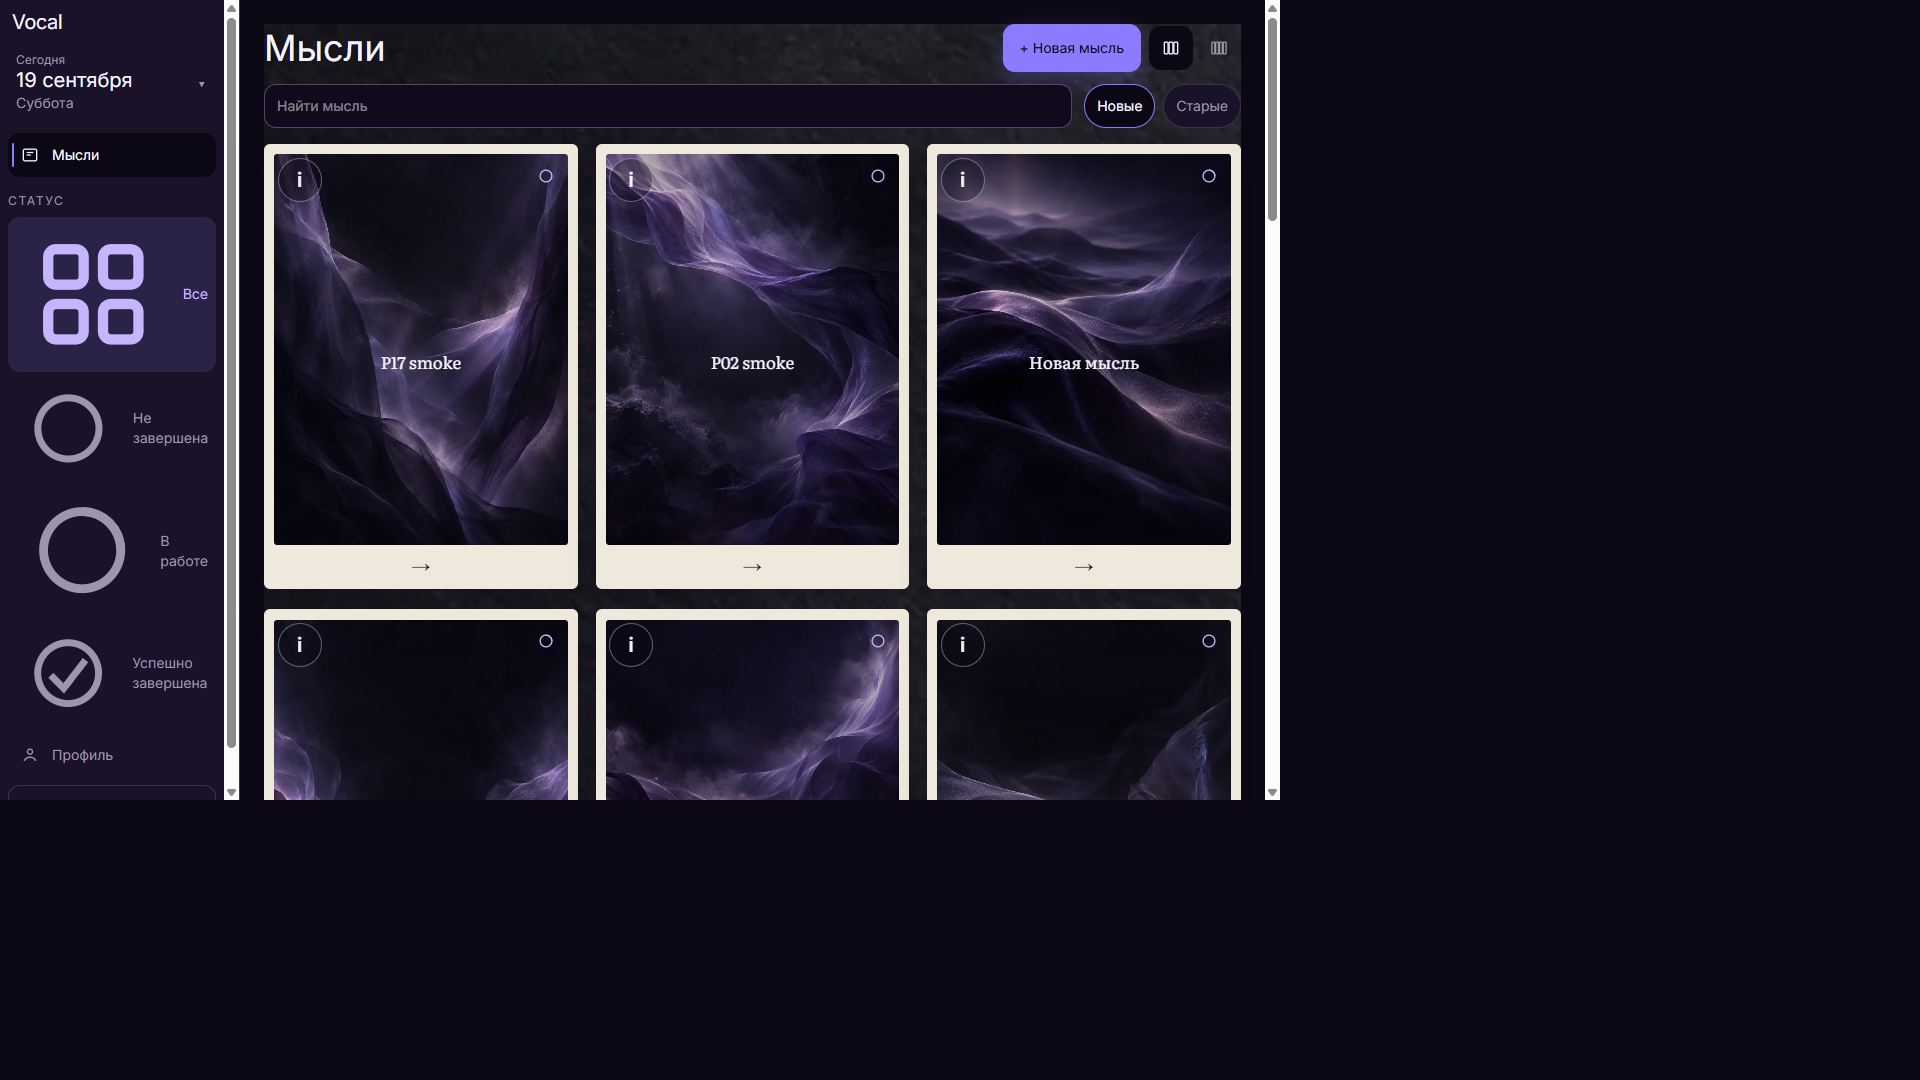
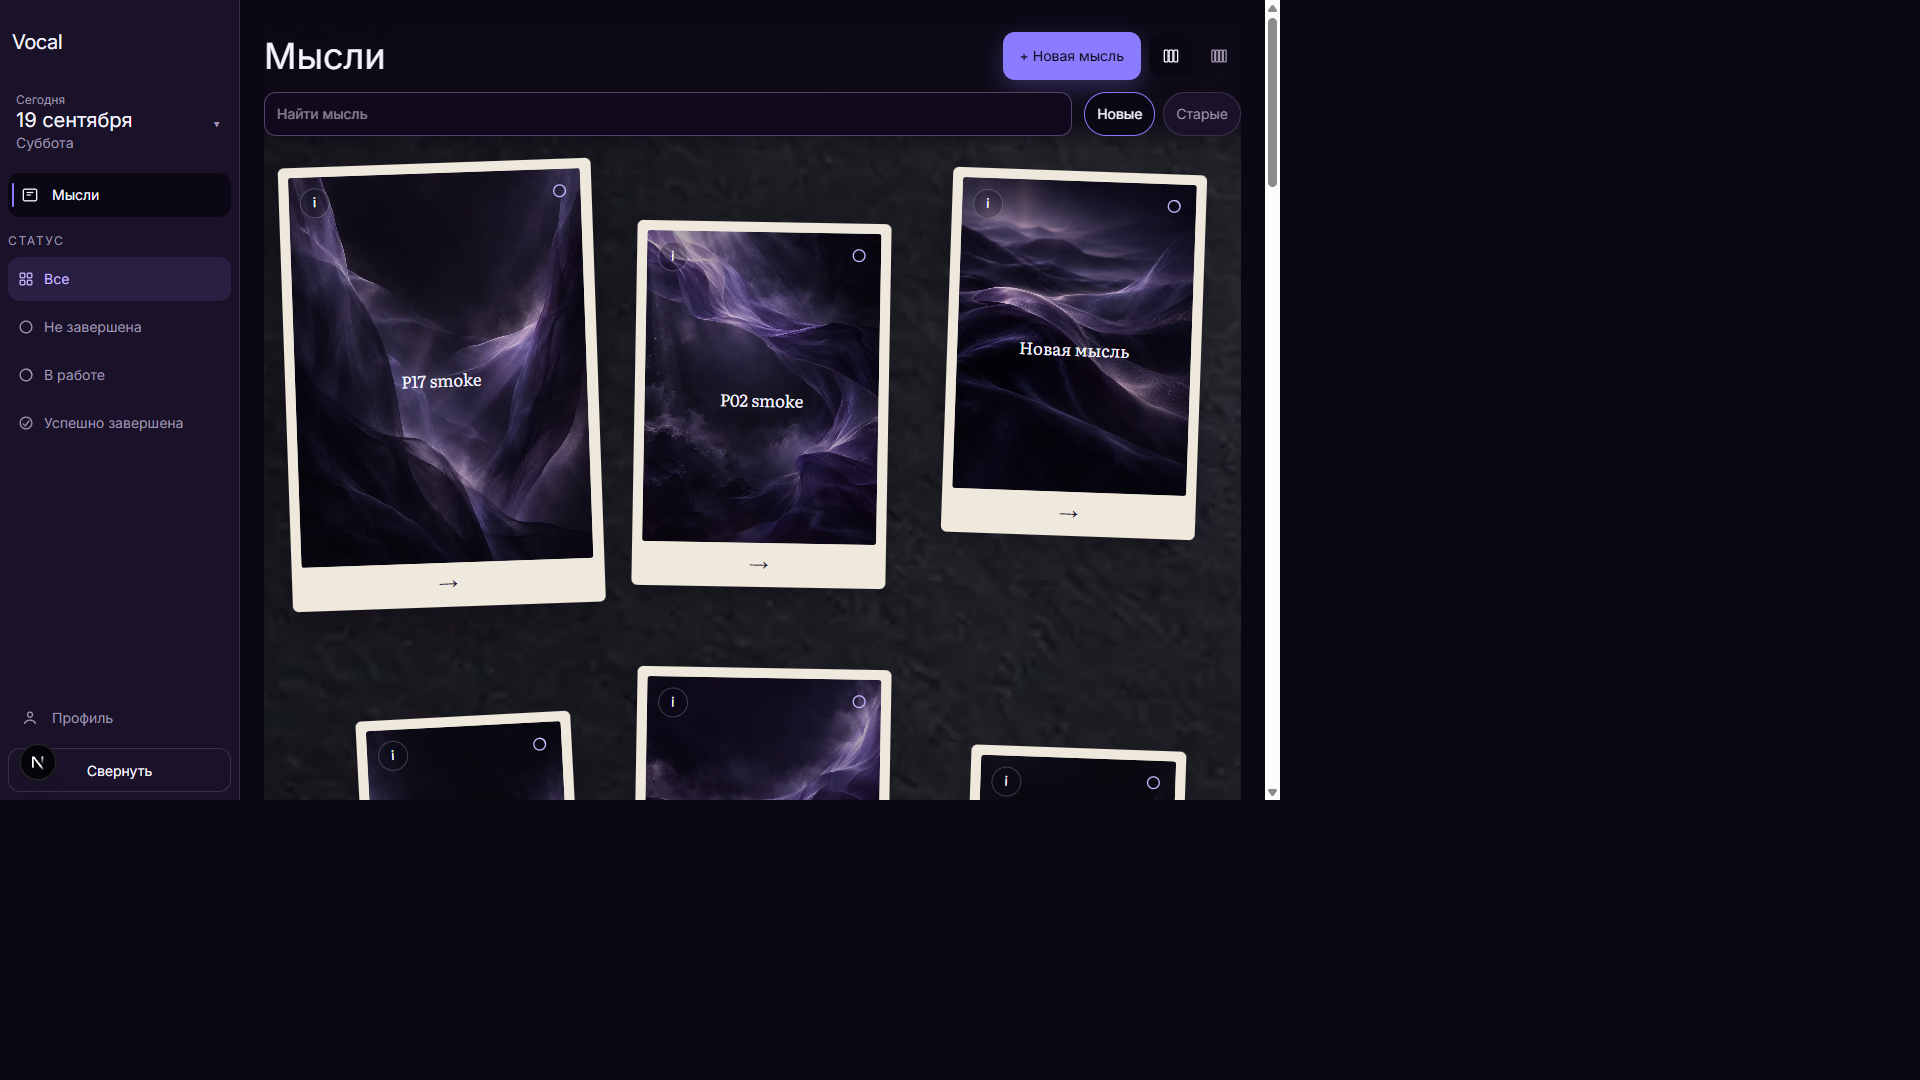
P01.6-2: lay large desktop polaroids in deterministic six-card desk spreads.

diff --git a/tests/p01-6-2-desktop-static.test.ts b/tests/p01-6-2-desktop-static.test.ts
@@ -9,6 +9,11 @@ import {
   readArchiveDensity,
   writeArchiveDensity,
 } from "../src/lib/archive-density";
+import {
+  ARCHIVE_DESK_SPREAD_SIZE,
+  archiveDeskSlot,
+  chunkArchiveDeskSpreads,
+} from "../src/lib/archive-desk-layout";
 
 const root = join(dirname(fileURLToPath(import.meta.url)), "..");
 
@@ -42,6 +47,31 @@ test("P01.6-2 density stays local and defaults to large", (t) => {
   assert.equal(readArchiveDensity(), "compact");
 });
 
+test("P01.6-2 large desktop splits thoughts into deterministic six-card desk spreads", () => {
+  assert.equal(ARCHIVE_DESK_SPREAD_SIZE, 6);
+  assert.deepEqual(chunkArchiveDeskSpreads([1, 2, 3, 4, 5, 6, 7, 8, 9, 10, 11, 12, 13]), [
+    [1, 2, 3, 4, 5, 6],
+    [7, 8, 9, 10, 11, 12],
+    [13],
+  ]);
+  assert.equal(archiveDeskSlot(0), 1);
+  assert.equal(archiveDeskSlot(5), 6);
+  const list = readFileSync(join(root, "src/components/ReelList.tsx"), "utf8");
+  const css = readFileSync(join(root, "src/app/globals.css"), "utf8");
+  assert.match(list, /chunkArchiveDeskSpreads/);
+  assert.match(list, /data-slot=\{slot\}/);
+  assert.match(list, /archive-desk-spread/);
+  assert.equal(list.includes("Math.random"), false);
+  assert.equal(css.includes("Math.random"), false);
+  assert.match(css, /\.archive-desk-slot-1[\s\S]*--archive-slot-tilt:\s*-2deg/);
+  assert.match(css, /\.archive-desk-slot-2[\s\S]*--archive-slot-tilt:\s*1deg/);
+  assert.match(css, /\.archive-desk-slot-3[\s\S]*--archive-slot-tilt:\s*2deg/);
+  assert.match(css, /\.archive-desk-slot-4[\s\S]*--archive-slot-tilt:\s*-3deg/);
+  assert.match(css, /\.archive-desk-slot-5[\s\S]*--archive-slot-tilt:\s*1deg/);
+  assert.match(css, /\.archive-desk-slot-6[\s\S]*--archive-slot-tilt:\s*2deg/);
+  assert.match(css, /\.archive-polaroid-grid-compact[\s\S]*repeat\(4/);
+});
+
 test("P01.6-2 desktop composition moves calendar/status left and toolbar into the work area", () => {
   const list = readFileSync(join(root, "src/components/ReelList.tsx"), "utf8");
   const shell = readFileSync(join(root, "src/components/VocalAppShell.tsx"), "utf8");
@@ -62,7 +92,7 @@ test("P01.6-2 desktop composition moves calendar/status left and toolbar into th
   assert.match(shell, /shell:overflow-y-auto/);
   assert.match(shell, /setDateHost/);
   assert.match(shell, /setStatusHost/);
-  assert.match(css, /\.archive-polaroid-grid[\s\S]*repeat\(3/);
+  assert.match(css, /\.archive-desk-spread[\s\S]*position:\s*relative/);
   assert.match(css, /\.archive-polaroid-grid-compact[\s\S]*repeat\(4/);
   assert.match(css, /\.archive-polaroid-title[\s\S]*text-align:\s*center/);
   assert.match(css, /\.archive-polaroid-info[\s\S]*min-height:\s*2\.75rem/);

diff --git a/src/components/ReelList.tsx b/src/components/ReelList.tsx
@@ -43,6 +43,10 @@ import {
   type ArchiveListUrlState,
 } from "@/lib/thought-archive-state";
 import {
+  archiveDeskSlot,
+  chunkArchiveDeskSpreads,
+} from "@/lib/archive-desk-layout";
+import {
   readArchiveDensity,
   writeArchiveDensity,
   type ArchiveDensity,
@@ -515,12 +519,8 @@ export function ReelList() {
 
           {!loading && !listError && reels.length > 0 ? (
             <div className="space-y-4">
-              {isDesktop ? (
-                <ul
-                  className={`archive-polaroid-grid ${
-                    density === "compact" ? "archive-polaroid-grid-compact" : ""
-                  } list-none p-0`}
-                >
+              {isDesktop && density === "compact" ? (
+                <ul className="archive-polaroid-grid archive-polaroid-grid-compact list-none p-0">
                   {reels.map((reel) => (
                     <li key={reel.id} className="min-w-0">
                       <ArchivePolaroidCard
@@ -532,6 +532,34 @@ export function ReelList() {
                     </li>
                   ))}
                 </ul>
+              ) : isDesktop ? (
+                <div className="archive-desk-spreads">
+                  {chunkArchiveDeskSpreads(reels).map((spread, spreadIndex) => (
+                    <ul
+                      key={spread.map((reel) => reel.id).join("-")}
+                      className="archive-desk-spread list-none p-0"
+                      data-archive-spread={spreadIndex + 1}
+                    >
+                      {spread.map((reel, indexInSpread) => {
+                        const slot = archiveDeskSlot(indexInSpread);
+                        return (
+                          <li
+                            key={reel.id}
+                            data-slot={slot}
+                            className={`archive-desk-slot archive-desk-slot-${slot}`}
+                          >
+                            <ArchivePolaroidCard
+                              reel={reel}
+                              variant="desktop"
+                              onOpenPreview={() => openPreview(reel.id)}
+                              onLeaveToStudio={() => rememberArchiveFocus(reel.id)}
+                            />
+                          </li>
+                        );
+                      })}
+                    </ul>
+                  ))}
+                </div>
               ) : (
                 <ul className="archive-polaroid-grid-mobile list-none p-0">
                   {reels.map((reel) => (

diff --git a/src/app/globals.css b/src/app/globals.css
@@ -210,6 +210,78 @@ a[aria-disabled="true"] {
   grid-template-columns: repeat(4, minmax(0, 1fr));
 }
 
+.archive-desk-spreads {
+  display: flex;
+  flex-direction: column;
+  gap: 4.5rem;
+}
+
+.archive-desk-spread {
+  position: relative;
+  width: 100%;
+  aspect-ratio: 10 / 11;
+  overflow: visible;
+}
+
+.archive-desk-slot {
+  position: absolute;
+  z-index: 1;
+  margin: 0;
+  transform: rotate(var(--archive-slot-tilt, 0deg));
+  transform-origin: 50% 42%;
+}
+
+.archive-desk-slot .archive-polaroid {
+  width: 100%;
+}
+
+.archive-desk-slot-1 {
+  left: 2%;
+  top: 1%;
+  width: 32%;
+  --archive-slot-tilt: -2deg;
+}
+
+.archive-desk-slot-2 {
+  left: 38%;
+  top: 6.5%;
+  width: 26%;
+  --archive-slot-tilt: 1deg;
+}
+
+.archive-desk-slot-3 {
+  left: 70%;
+  top: 1.8%;
+  width: 26%;
+  --archive-slot-tilt: 2deg;
+}
+
+.archive-desk-slot-4 {
+  left: 10%;
+  top: 52.5%;
+  width: 22%;
+  --archive-slot-tilt: -3deg;
+}
+
+.archive-desk-slot-5 {
+  left: 38%;
+  top: 48%;
+  width: 26%;
+  --archive-slot-tilt: 1deg;
+}
+
+.archive-desk-slot-6 {
+  left: 72%;
+  top: 55.5%;
+  width: 22%;
+  --archive-slot-tilt: 2deg;
+}
+
+.archive-desk-slot-4 .archive-polaroid-title,
+.archive-desk-slot-6 .archive-polaroid-title {
+  font-size: 0.92rem;
+}
+
 .archive-polaroid {
   position: relative;
   background: #efe8dc;
@@ -240,6 +312,11 @@ a[aria-disabled="true"] {
     transform: translateY(-5px) rotate(-1.25deg);
     box-shadow: 0 18px 34px rgba(11, 7, 20, 0.45);
     color: #100b1a;
+  }
+
+  .archive-desk-spread .archive-polaroid:hover,
+  .archive-desk-spread .archive-polaroid:focus-within {
+    transform: translateY(-6px);
   }
 }
 

diff --git a/src/lib/archive-desk-layout.ts b/src/lib/archive-desk-layout.ts
@@ -1,0 +1,14 @@
+export const ARCHIVE_DESK_SPREAD_SIZE = 6;
+export type ArchiveDeskSlot = 1 | 2 | 3 | 4 | 5 | 6;
+
+export function chunkArchiveDeskSpreads<T>(items: readonly T[]): T[][] {
+  const spreads: T[][] = [];
+  for (let i = 0; i < items.length; i += ARCHIVE_DESK_SPREAD_SIZE) {
+    spreads.push(items.slice(i, i + ARCHIVE_DESK_SPREAD_SIZE));
+  }
+  return spreads;
+}
+
+export function archiveDeskSlot(indexInSpread: number): ArchiveDeskSlot {
+  return ((indexInSpread % ARCHIVE_DESK_SPREAD_SIZE) + 1) as ArchiveDeskSlot;
+}
